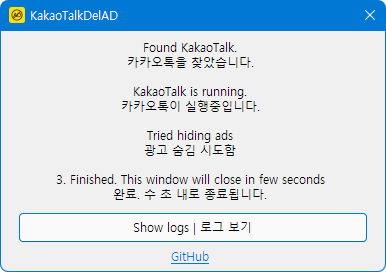
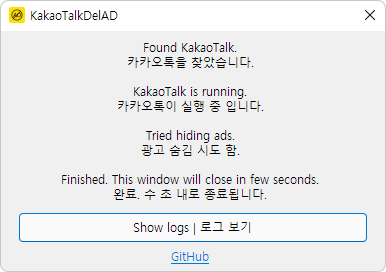
표시되는 문구 변경

diff --git a/KakaoTalkDelAD/Form1.Designer.cs b/KakaoTalkDelAD/Form1.Designer.cs
@@ -49,7 +49,7 @@
             this.step01.Name = "step01";
             this.step01.Size = new System.Drawing.Size(300, 44);
             this.step01.TabIndex = 0;
-            this.step01.Text = "1. Launching KakaoTalk\r\n카카오톡 실행중";
+            this.step01.Text = "Launching KakaoTalk\r\n카카오톡 실행 중";
             this.step01.TextAlign = System.Drawing.ContentAlignment.TopCenter;
             // 
             // step02
@@ -61,7 +61,7 @@
             this.step02.Name = "step02";
             this.step02.Size = new System.Drawing.Size(300, 44);
             this.step02.TabIndex = 0;
-            this.step02.Text = "2. Hiding ads from KakaoTalk.\r\n카카오톡에서 광고 숨기는 중";
+            this.step02.Text = "Hiding ads from KakaoTalk\r\n카카오톡에서 광고 숨기는 중";
             this.step02.TextAlign = System.Drawing.ContentAlignment.TopCenter;
             // 
             // step03
@@ -73,7 +73,7 @@
             this.step03.Name = "step03";
             this.step03.Size = new System.Drawing.Size(300, 44);
             this.step03.TabIndex = 0;
-            this.step03.Text = "3. Finished. This window will close in few seconds\r\n완료. 수 초 내로 종료됩니다.";
+            this.step03.Text = "Finished. This window will close in few seconds.\r\n완료. 수 초 내로 종료됩니다.";
             this.step03.TextAlign = System.Drawing.ContentAlignment.TopCenter;
             // 
             // step00
@@ -85,7 +85,7 @@
             this.step00.Name = "step00";
             this.step00.Size = new System.Drawing.Size(300, 44);
             this.step00.TabIndex = 0;
-            this.step00.Text = "0. Searching KakaoTalk\r\n카카오톡 찾는중";
+            this.step00.Text = "Searching KakaoTalk\r\n카카오톡 찾는 중";
             this.step00.TextAlign = System.Drawing.ContentAlignment.TopCenter;
             // 
             // waitForKatalk

diff --git a/KakaoTalkDelAD/Form1.cs b/KakaoTalkDelAD/Form1.cs
@@ -361,7 +361,7 @@ namespace KakaoTalkDelAD
                     else
                     {
                         // 카톡 경로 못 찾음
-                        step00.Text = "Could not find KakaoTalk\n카카오톡 찾지 못 함";
+                        step00.Text = "Could not find KakaoTalk.\n카카오톡 찾지 못 함.";
                     }
                     break;
 
@@ -403,7 +403,7 @@ namespace KakaoTalkDelAD
                     if (runningKakaoTalk())
                     {
                         //카톡 핸들을 찾았다. 
-                        step01.Text = "KakaoTalk is running.\n카카오톡이 실행중입니다.";
+                        step01.Text = "KakaoTalk is running.\n카카오톡이 실행 중 입니다.";
                         //카톡 대기 타이머 중지
                         //waitForKatalk.Enabled = false;
                         //다음 단계로
@@ -416,7 +416,7 @@ namespace KakaoTalkDelAD
                     //광고 숨김
                     int hideResult = hideAd();
                     log.info("hide ads Result: " + hideResult);
-                    step02.Text = "Tried hiding ads\n광고 숨김 시도함";
+                    step02.Text = "Tried hiding ads.\n광고 숨김 시도 함.";
 
                     //광고가 숨겨진 경우에만 타이머를 멈춤.
                     if ((hideResult & AdCloser.AdCloseResult.NOT_CLOSED_ADS_ON_FRIENDS_LIST) == 0)

diff --git a/KakaoTalkDelAD/Properties/AssemblyInfo.cs b/KakaoTalkDelAD/Properties/AssemblyInfo.cs
@@ -31,5 +31,5 @@ using System.Runtime.InteropServices;
 // You can specify all the values or you can default the Build and Revision Numbers
 // by using the '*' as shown below:
 // [assembly: AssemblyVersion("1.0.*")]
-[assembly: AssemblyVersion("2.1.2110.0")]
-[assembly: AssemblyFileVersion("2.1.2110.0")]
+[assembly: AssemblyVersion("2.2.2111.0")]
+[assembly: AssemblyFileVersion("2.2.2111.0")]

diff --git a/README.md b/README.md
@@ -8,4 +8,4 @@
 PC에 카카오톡이 설치된 경우 레지스트리를 기준으로 찾습니다.
 KakaoTalk.exe가 이 실행파일과 같은 폴더에 있는 경우에도 가능합니다.
 
-제가 커밋한 부분는 WTFPL이긴 한데 나머지 두 분은 라이센스를 명시해주지 않으셨습니다. 주의하세요
+제가 커밋한 부분는 WTFPL입니다만 나머지 두 분은 라이센스를 명시해주지 않으셨습니다. 주의하세요.
